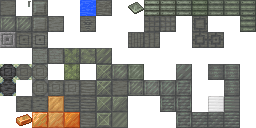
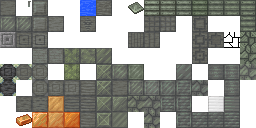
composite plate block

diff --git a/src/main/java/io/github/reoseah/hayo/Hayo.java b/src/main/java/io/github/reoseah/hayo/Hayo.java
@@ -229,8 +229,8 @@ public class Hayo {
 
         public static final CableBlock CABLE = register("cable", properties -> new CableBlock(32, 2, properties), BlockBehaviour.Properties.of().strength(.5F, 3).sound(SoundType.WOOL).pushReaction(PushReaction.DESTROY));
         public static final CableBlock POWER_CABLE = register("power_cable", properties -> new CableBlock(128, 3, properties), BlockBehaviour.Properties.of().strength(.75F, 6).sound(SoundType.WOOL).pushReaction(PushReaction.DESTROY));
-        public static final DataCableBlock GLASS_FIBER = register("glass_fiber", properties -> new DataCableBlock(1, properties), BlockBehaviour.Properties.of().strength(.75F, 6).sound(SoundType.WOOL).pushReaction(PushReaction.DESTROY));
         public static final CableBlock ADVANCED_ENERGY_CONDUIT = register("advanced_energy_conduit", properties -> new CableBlock(512, 5, properties), BlockBehaviour.Properties.of().strength(1F, 15).sound(SoundType.METAL).pushReaction(PushReaction.DESTROY));
+        public static final DataCableBlock GLASS_FIBER = register("glass_fiber", properties -> new DataCableBlock(1, properties), BlockBehaviour.Properties.of().strength(.75F, 6).sound(SoundType.WOOL).pushReaction(PushReaction.DESTROY));
 
         public static final Block RUBBER_LOG = register("rubber_log", RotatedPillarBlock::new, logProperties(MapColor.WOOD, MapColor.PODZOL, SoundType.WOOD));
         public static final Block RESIN_YIELDING_RUBBER_LOG = register("resin_yielding_rubber_log", ResinYieldingLogBlock::new, BlockBehaviour.Properties.of().randomTicks().instrument(NoteBlockInstrument.BASS).strength(2.0F).sound(SoundType.WOOD).ignitedByLava());
@@ -248,6 +248,7 @@ public class Hayo {
         public static final Block MACHINE_BLOCK = register("machine_block", Block::new, MACHINES);
         public static final Block ADVANCED_MACHINE_BLOCK = register("advanced_machine_block", Block::new, MACHINES);
         public static final Block SILICON_BRONZE_BLOCK = register("silicon_bronze_block", Block::new, BlockBehaviour.Properties.of().strength(3F).sound(SoundType.METAL).mapColor(MapColor.COLOR_ORANGE));
+        public static final Block COMPOSITE_PLATE_BLOCK = register("composite_plate_block", Block::new, BlockBehaviour.Properties.of().strength(5F, 30F).sound(SoundType.METAL).mapColor(MapColor.COLOR_GREEN));
         public static final Block RAW_SILICON_BLOCK = register("raw_silicon_block", Block::new, BlockBehaviour.Properties.of().strength(3F).mapColor(MapColor.COLOR_BLACK));
 
         public static final Block CHIPBOARD = register("chipboard", Block::new, BlockBehaviour.Properties.of().strength(3F).sound(SoundType.WOOD).mapColor(MapColor.WOOD));
@@ -297,8 +298,8 @@ public class Hayo {
 
         public static final Item CABLE = registerBlock(Blocks.CABLE, BlockItemWithTooltip::new);
         public static final Item POWER_CABLE = registerBlock(Blocks.POWER_CABLE, BlockItemWithTooltip::new);
-        public static final Item GLASS_FIBER = registerBlock(Blocks.GLASS_FIBER);
         public static final Item ADVANCED_ENERGY_CONDUIT = registerBlock(Blocks.ADVANCED_ENERGY_CONDUIT, BlockItemWithTooltip::new);
+        public static final Item GLASS_FIBER = registerBlock(Blocks.GLASS_FIBER);
 
         public static final Item RUBBER_LOG = registerBlock(Blocks.RUBBER_LOG);
         public static final Item RESIN_YIELDING_RUBBER_LOG = registerBlock(Blocks.RESIN_YIELDING_RUBBER_LOG);
@@ -314,6 +315,7 @@ public class Hayo {
         public static final Item MACHINE_BLOCK = registerBlock(Blocks.MACHINE_BLOCK);
         public static final Item ADVANCED_MACHINE_BLOCK = registerBlock(Blocks.ADVANCED_MACHINE_BLOCK);
         public static final Item SILICON_BRONZE_BLOCK = registerBlock(Blocks.SILICON_BRONZE_BLOCK);
+        public static final Item COMPOSITE_PLATE_BLOCK = registerBlock(Blocks.COMPOSITE_PLATE_BLOCK);
         public static final Item RAW_SILICON_BLOCK = registerBlock(Blocks.RAW_SILICON_BLOCK);
 
         public static final Item CHIPBOARD = registerBlock(Blocks.CHIPBOARD);
@@ -532,6 +534,7 @@ public class Hayo {
                 entries.accept(MACHINE_BLOCK);
                 entries.accept(ADVANCED_MACHINE_BLOCK);
                 entries.accept(SILICON_BRONZE_BLOCK);
+                entries.accept(COMPOSITE_PLATE_BLOCK);
                 entries.accept(RAW_SILICON_BLOCK);
                 entries.accept(CHIPBOARD);
                 entries.accept(CHIPBOARD_DOOR);
